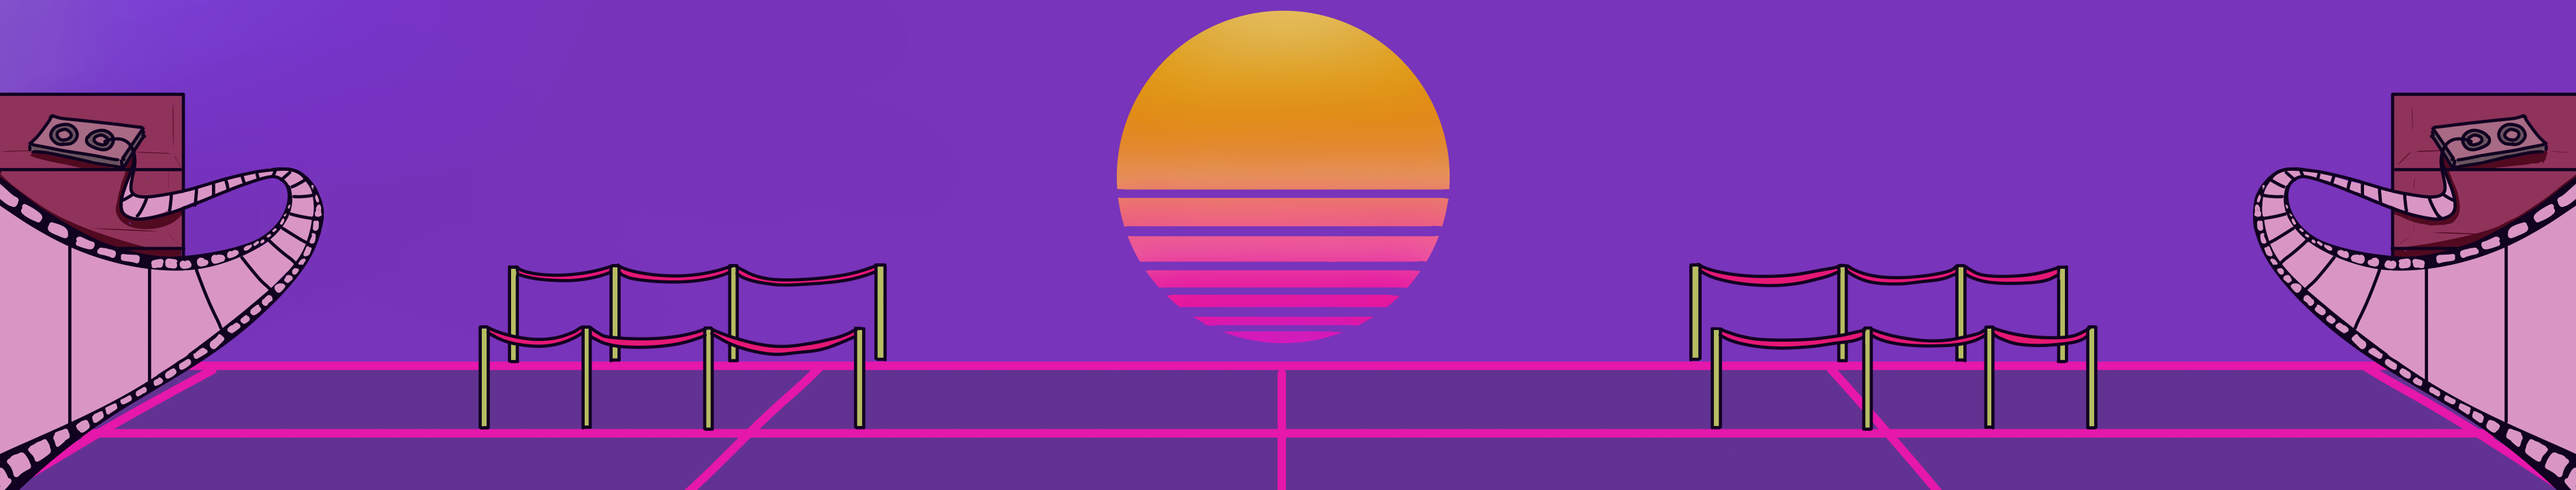
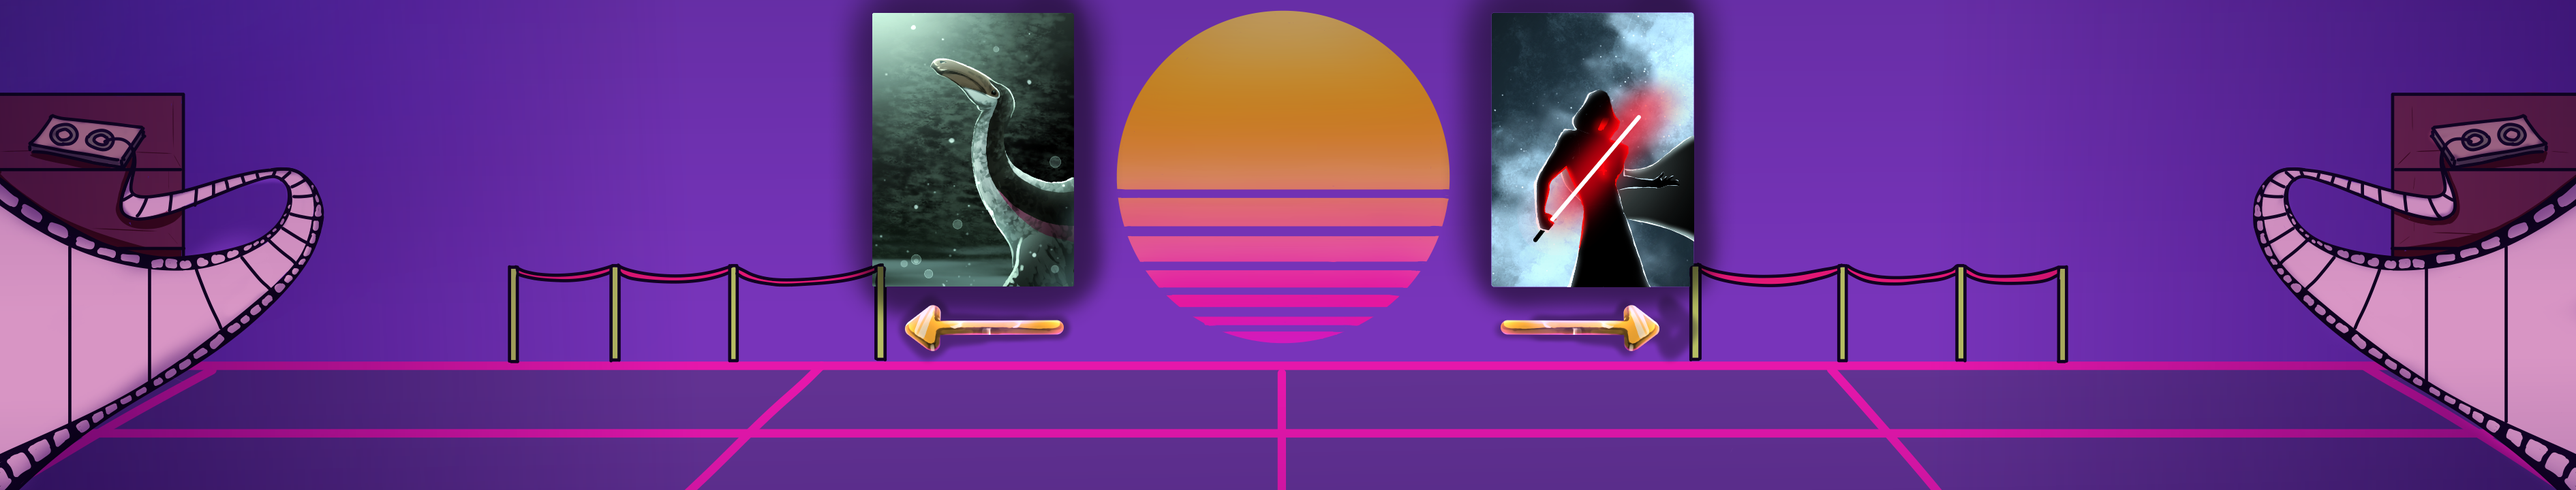
Level two now has scene TRANSitions

diff --git a/src/js/leveltwo.js b/src/js/leveltwo.js
@@ -5,6 +5,7 @@ import { Letter } from './letter.js'
 import { InvisibleFloor } from './invisiblefloor.js'
 import { InvisibleWall } from "./invisiblewall.js"
 import { Door } from './levelone/door.js'
+import { SceneTransition } from "./sceneTransition.js"
 
 export class LevelTwo extends Scene {
     onInitialize(engine) {
@@ -17,8 +18,16 @@ export class LevelTwo extends Scene {
         leveltwoscreen.graphics.use(Resources.levelTwo.toSprite())
         this.add(leveltwoscreen)
 
+        const scene = new SceneTransition()
+        scene.pos = new Vector(3840, 400)
+        this.add(scene)
+
+        const scene2 = new SceneTransition()
+        scene2.pos = new Vector(-80, 400)
+        this.add(scene2)
+
         const invisfloor = new InvisibleFloor()
-        invisfloor.pos = new Vector(1800, 640)
+        invisfloor.pos = new Vector(1820, 640)
         this.add(invisfloor)
 
         const inviswall = new InvisibleWall()
@@ -40,5 +49,8 @@ export class LevelTwo extends Scene {
     }
     onDeactivate() {
         this.clear()
+    }
+    changeScene() {
+        this.engine.goToScene('intro')
     }
 }

diff --git a/src/js/game.js b/src/js/game.js
@@ -42,7 +42,7 @@ export class Game extends Engine {
         this.add('l1scenetwo', new LOneSceneTwo())
         this.add('l1extra', new LOneExtraScene())
         this.add('l1extrabad', new LOneExtraSceneBad())
-        this.goToScene('levelthree')
+        this.goToScene('leveltwo')
 
         this.input.gamepads.enabled = true
         this.input.gamepads.on('connect', (connectevent) => {
